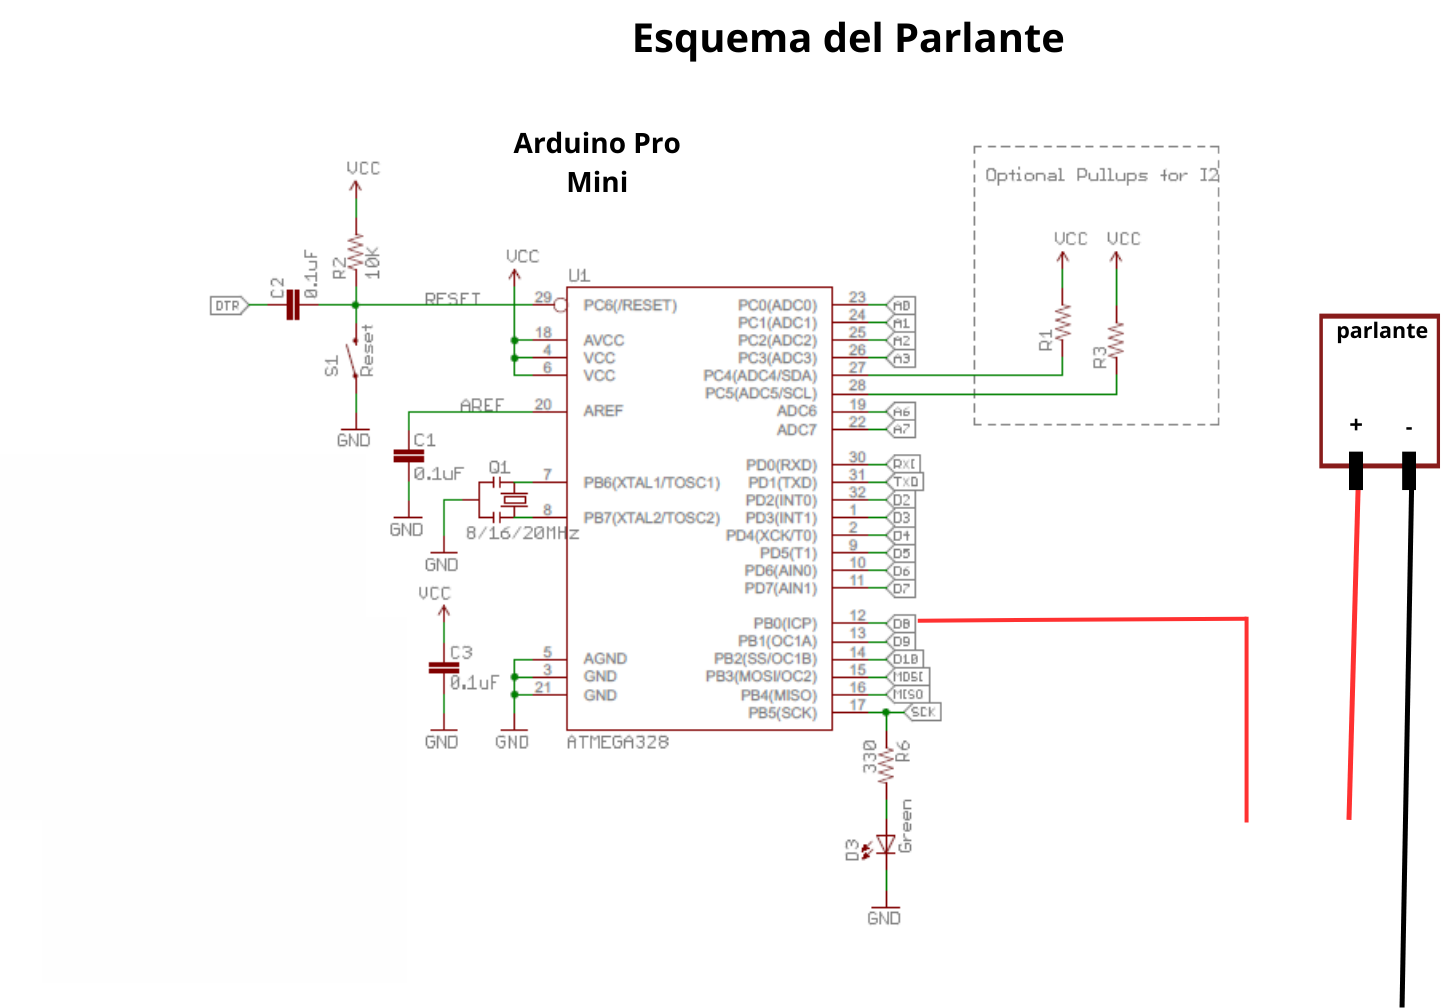
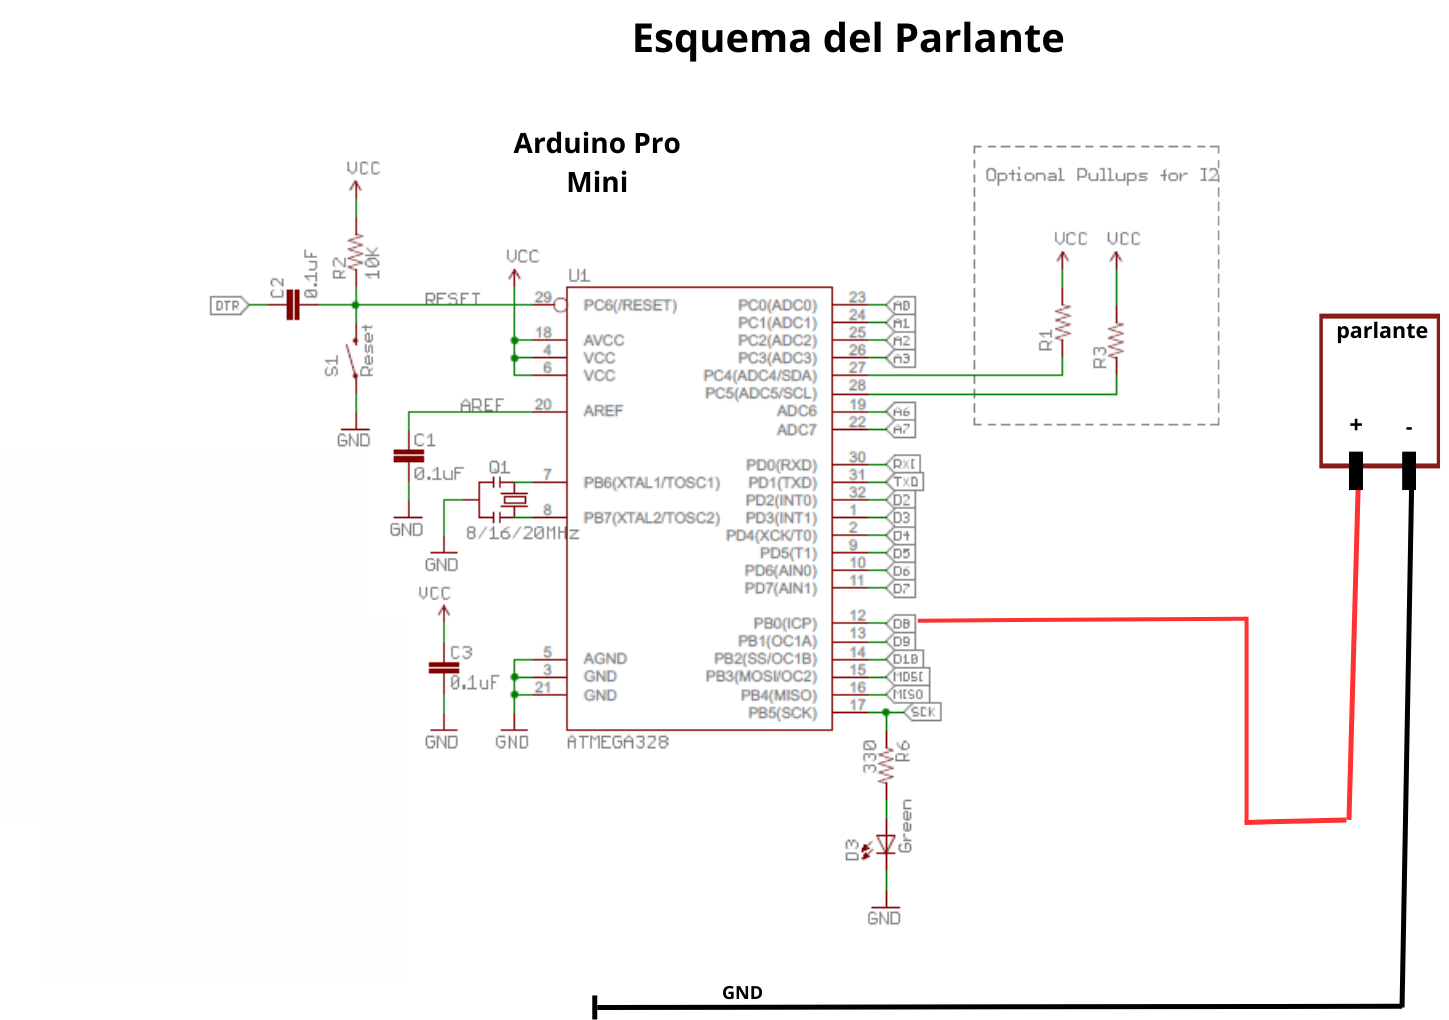
Agrego últimas páginas

diff --git a/Web_Incubadora/pagina8.html b/Web_Incubadora/pagina8.html
@@ -1,0 +1,51 @@
+<!DOCTYPE html>
+<html lang="es">
+
+    <head>
+            <title>
+             Incubadora 
+            </title>
+            <meta charset="UTF-8">
+            <link rel="stylesheet" type="text/css" href="estilos.css" />
+    </head>
+
+    <body>
+        <div >
+           
+            <h1 id="titulo">
+                Conexión Completa
+            </h1>
+          
+        </div>
+        <div id="texto">
+            <p>
+                A continuación, se observa el esquema de conexión de todos los componentes
+                a la placa, cada uno enlazado al pin correspondiente para cumplir con el 
+                flujo de transmisión de datos. Se debe tener en cuenta, que cada uno de estos 
+                también se conectan tanto a negativo (GND), como a positivo (VCC).
+            </p>
+        </div>
+        <img src="imagenes/esq_conexion_completa.png" id="img_Conexion"/>
+        <h2 id="subt2">
+            Conexión general a los pines de la placa
+        </h2>
+        <div id="img_Servo">
+            <img src="imagenes/esq_conexion_pines.png" id="esq_Servo"/>
+            <img src="imagenes/pines_placa.png" id="foto_Servo"/>
+        </div>
+        <h2 id="subt2">
+            Imagen de la conexión de todos los componentes
+        </h2>
+        <img src="imagenes/img_conexion_comp.png" id="img_comp"/>
+        <div id="Boton">
+            <a href="pagina7.html" class="Boton_Sig" > Atras </a>
+        </div>
+
+        <br>
+        <footer id="pie_pag">
+            Realizado por: Navarrete Katherina, Flores Karen
+        </footer>
+
+    </body>
+
+</html>

diff --git a/Web_Incubadora/pagina6.html b/Web_Incubadora/pagina6.html
@@ -13,26 +13,29 @@
         <div >
            
             <h1 id="titulo">
-                Esquema Parlante
+                Parlante
             </h1>
           
         </div>
         <div id="texto">
             <p>
-                
+                Otro de los componentes utilizados fue un parlante, con el fin de ser el encargado
+                de advertir ante cualquier irregularidad. 
+                <br>
+                Se usó el pin 8 de la placa para la transmisión de datos hacia el parlante. A continuación, 
+                se observa el esquema de conexión.
             </p>
         </div>
-        <img src="imagenes/esq_sensor_corriente.png" id="img_HT"/>
-        <div id="texto">
-            <p>
-            
-            </p>
-        </div>
+        <img src="imagenes/esq_parlante.png" id="img_HT"/>
+        <h2 id="subt2">
+            Imagen de Conexión
+        </h2>
+        <img src="imagenes/img_parlante.png" id="img_HT"/>
         <div id="Boton">
-            <a href="pagina3.html" class="Boton_Sig" > Atras </a>
-            <a href="pagina5.html" class="Boton_Sig" > Siguente </a>
+            <a href="pagina5.html" class="Boton_Sig" > Atras </a>
+            <a href="pagina7.html" class="Boton_Sig" > Siguente </a>
         </div>
-
+        
         <br>
         <footer id="pie_pag">
             Realizado por: Navarrete Katherina, Flores Karen

diff --git a/Web_Incubadora/pagina7.html b/Web_Incubadora/pagina7.html
@@ -13,24 +13,28 @@
         <div >
            
             <h1 id="titulo">
-                Esquema Pantalla
+                Pantalla
             </h1>
           
         </div>
         <div id="texto">
             <p>
-                
+                La pantalla es un componente que se utilizó para mostrar información en cuanto a 
+                los valores de la temperatura y humedad. Y, en caso de la presencia de un corte de luz,
+                también lo informa.
+                <br>
+                Los pines de la placa que se utilizaron para la transmisión de datos son: A4 y A5.
+                A continuación, se observa el esquema de conexión.
             </p>
         </div>
-        <img src="imagenes/esq_sensor_corriente.png" id="img_HT"/>
-        <div id="texto">
-            <p>
-            
-            </p>
-        </div>
+        <img src="imagenes/esq_pantalla.png" id="img_HT"/>
+        <h2 id="subt2">
+            Imagen de Conexión
+        </h2>
+        <img src="imagenes/img_pantalla.png" id="img_HT"/>
         <div id="Boton">
-            <a href="pagina3.html" class="Boton_Sig" > Atras </a>
-            <a href="pagina5.html" class="Boton_Sig" > Siguente </a>
+            <a href="pagina6.html" class="Boton_Sig" > Atras </a>
+            <a href="pagina8.html" class="Boton_Sig" > Siguiente </a>
         </div>
 
         <br>

diff --git a/Web_Incubadora/estilos.css b/Web_Incubadora/estilos.css
@@ -65,6 +65,20 @@
 width: 500px;
 margin-left: 450px;
 }
+#img_Conexion{
+    width: 900px;
+    margin-left: 300px;
+}
+#img_comp{
+    width: 650px;
+    margin-left: 350px;
+}
+#subt2{
+    margin-top: 50px ;    
+    text-align: center;
+    color: black;
+    font-weight: bold; 
+}
 #titulo{
     margin-top: 50px ;    
     text-align: center;
